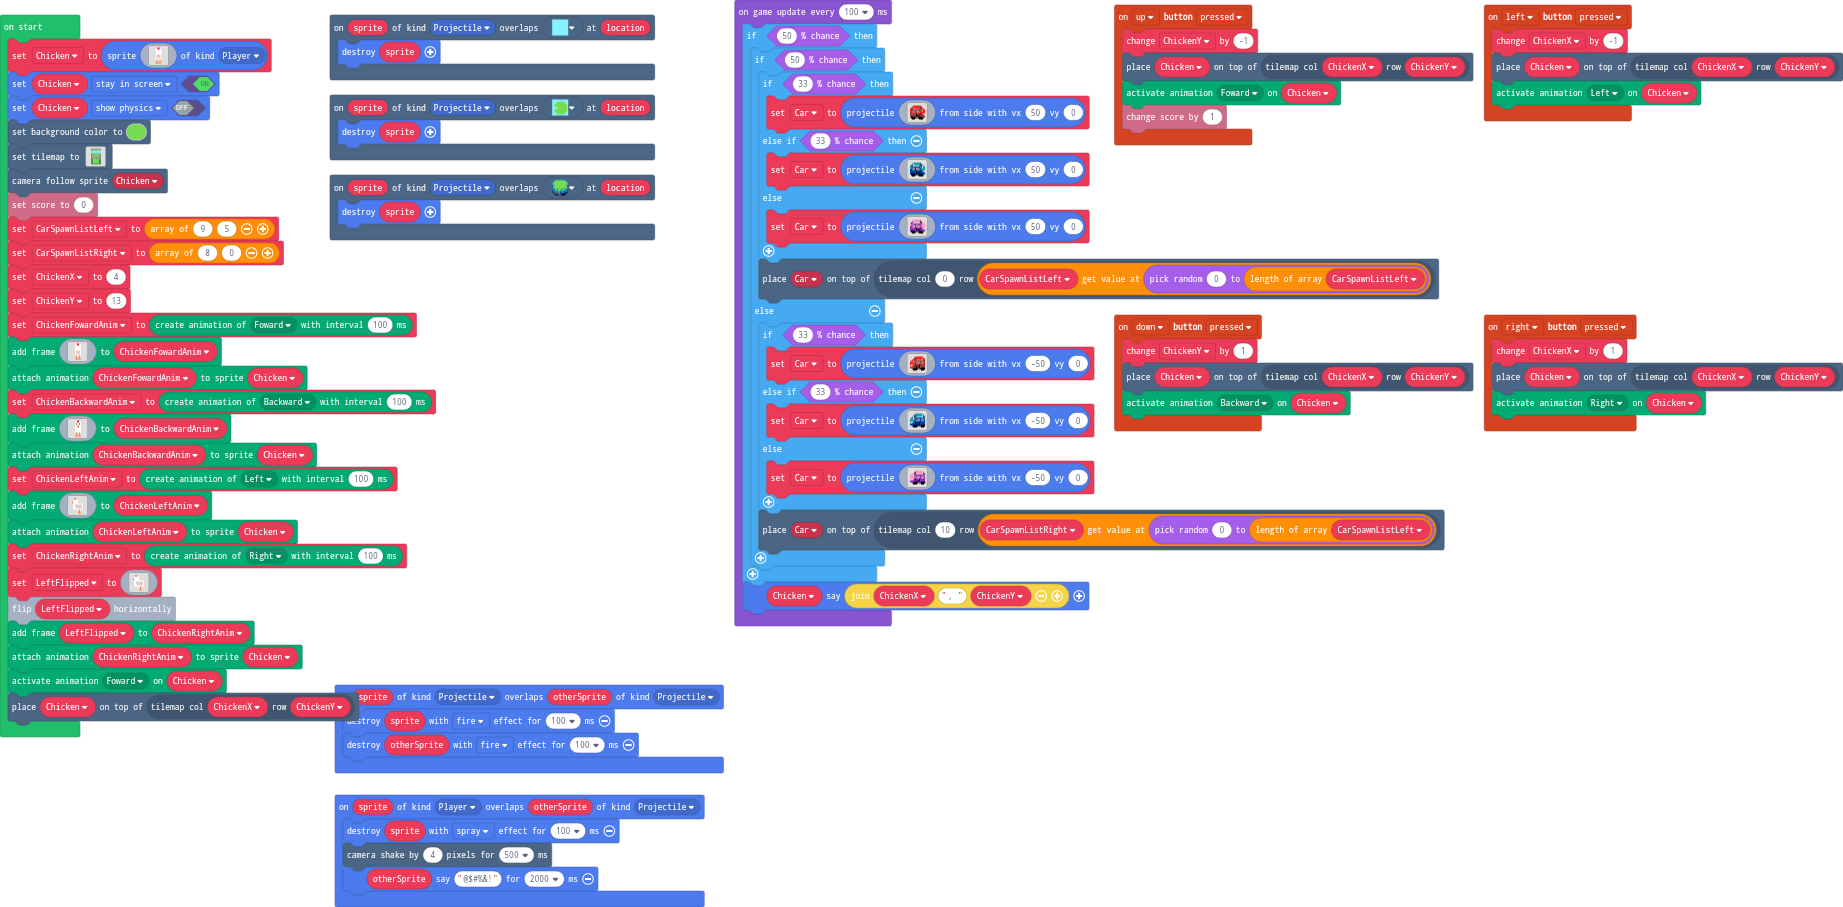
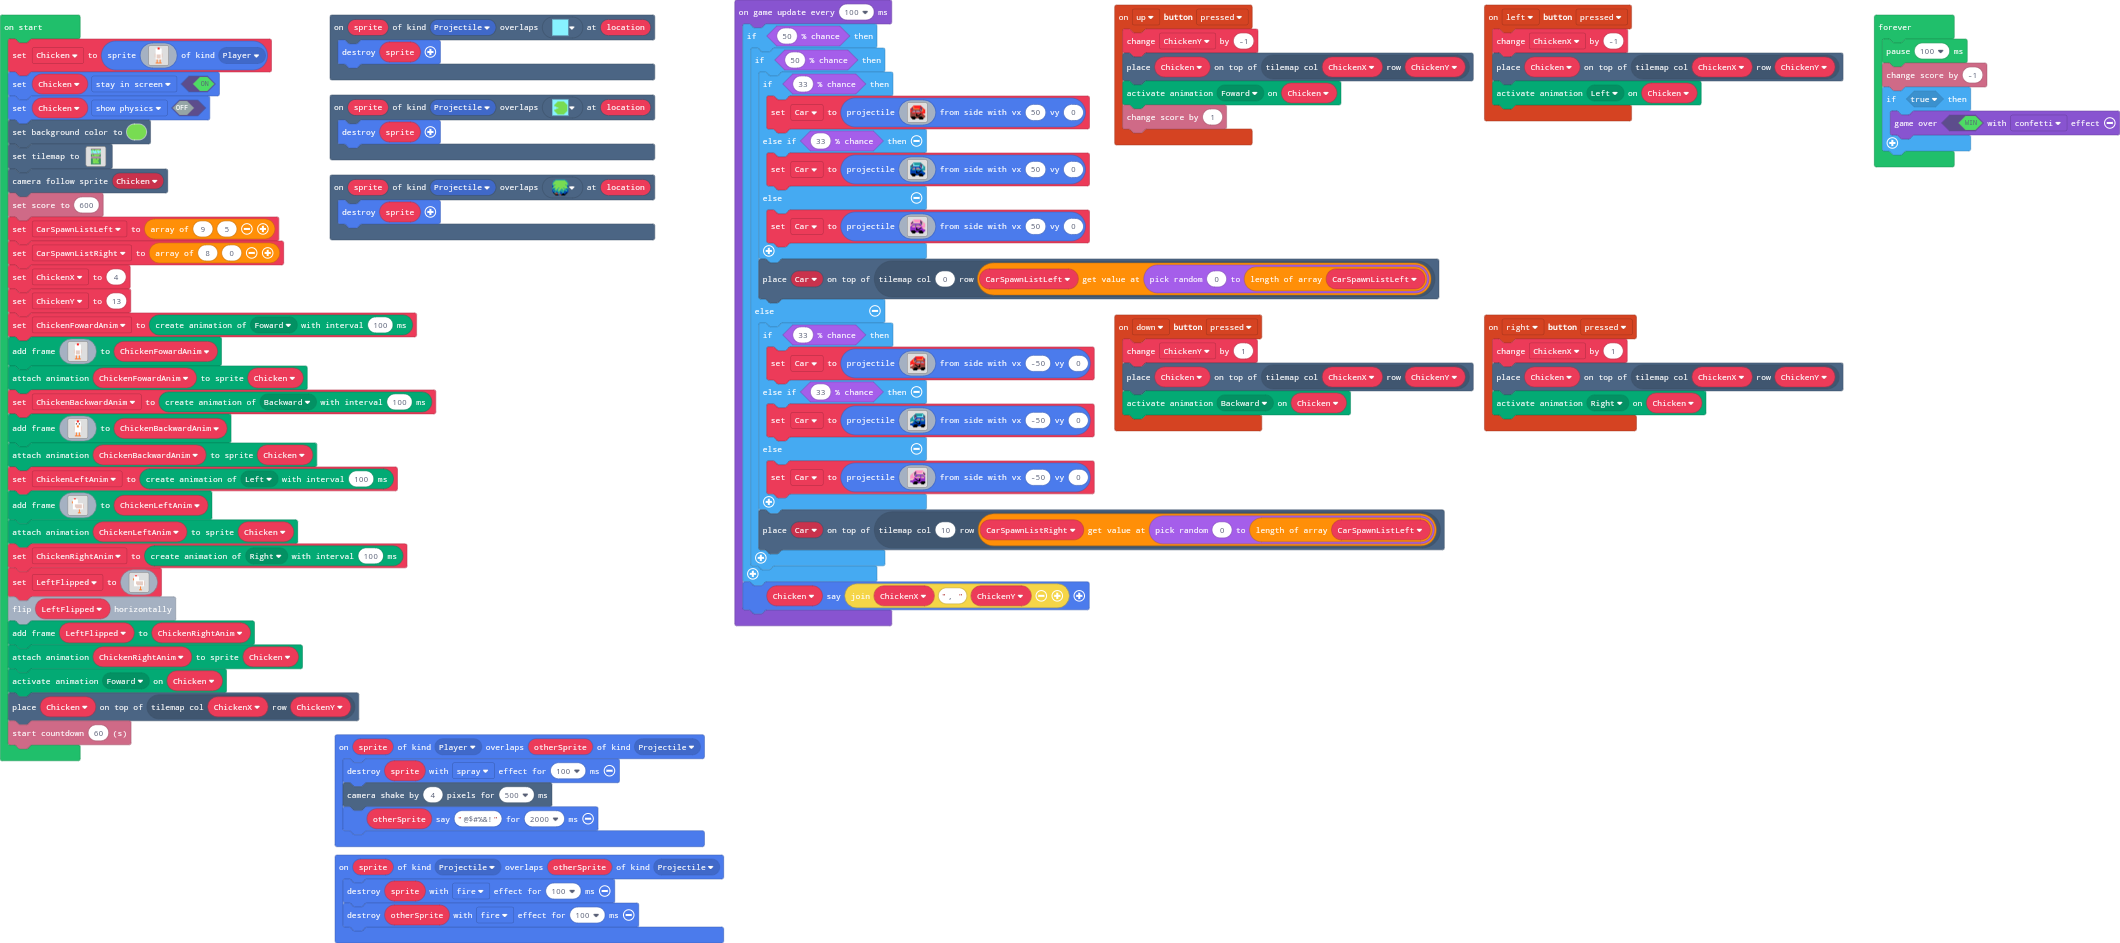
Update main.blocks, main.ts

diff --git a/main.ts b/main.ts
@@ -173,7 +173,7 @@ tiles.setTilemap(tiles.createTilemap(
             TileScale.Sixteen
         ))
 scene.cameraFollowSprite(Chicken)
-info.setScore(0)
+info.setScore(600)
 let CarSpawnListLeft = [9, 5]
 let CarSpawnListRight = [8, 0]
 ChickenX = 4
@@ -262,6 +262,7 @@ ChickenRightAnim.addAnimationFrame(LeftFlipped)
 animation.attachAnimation(Chicken, ChickenRightAnim)
 animation.setAction(Chicken, ActionKind.Foward)
 tiles.placeOnTile(Chicken, tiles.getTileLocation(ChickenX, ChickenY))
+info.startCountdown(60)
 game.onUpdateInterval(100, function () {
     if (Math.percentChance(50)) {
         if (Math.percentChance(50)) {
@@ -387,4 +388,11 @@ game.onUpdateInterval(100, function () {
         }
     }
     Chicken.say("" + ChickenX + ", " + ChickenY)
+})
+forever(function () {
+    pause(100)
+    info.changeScoreBy(-1)
+    if (true) {
+        game.over(true, effects.confetti)
+    }
 })
